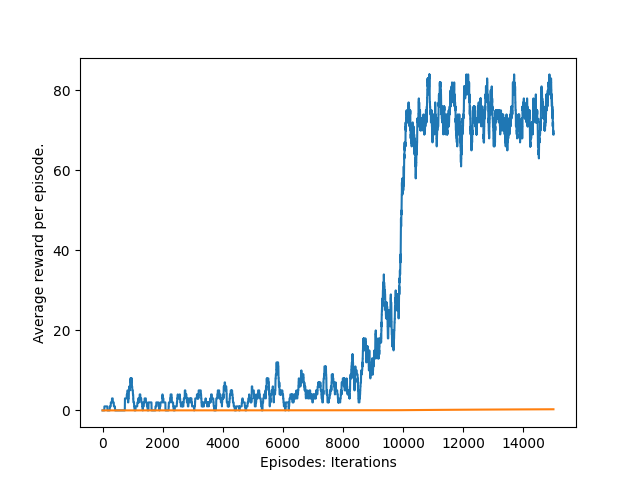
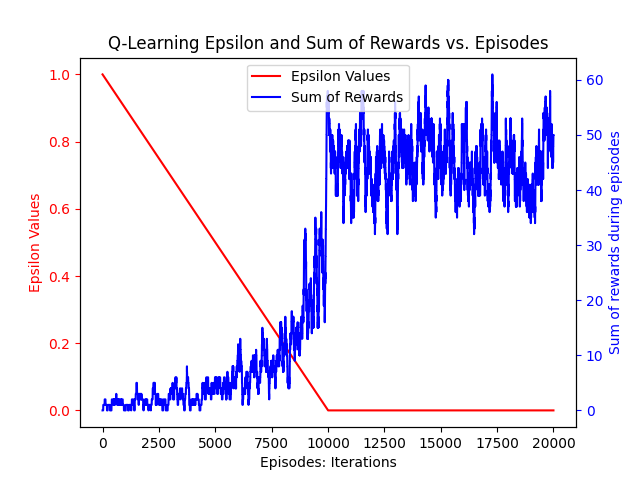
updated

diff --git a/RL Methods/SARSA/sarsa.py b/RL Methods/SARSA/sarsa.py
@@ -16,7 +16,7 @@ def run(episodes, render=False):
     Q = np.zeros((env.observation_space.n, env.action_space.n))
 
     # alpha or learning rate or step-size
-    alpha = 0.9
+    alpha = 0.5
 
     # gamma or discount factor
     gamma = 0.9
@@ -28,8 +28,14 @@ def run(episodes, render=False):
     epsilon_decay = 0.0001
     randomNum = np.random.default_rng()
 
-    # For graph; intialize the rewards in every episode to 0.
+    # For graph: intialize the rewards, epsilons to 0.
     rewardsPerEpisode = np.zeros(episodes)
+    epsilonPerEp = np.zeros(episodes)
+
+    # Initalize list of zeros, holding the average reward per epiosde.
+    avgRewardPerEp = np.zeros(episodes)
+    successful_episodes = 0  # Number of successful episodes, where the agent reaches the goal.
+    steps_to_reach_goal = [] # List containing the number of steps to reach the goal per episode. 
 
     for i in range(episodes):
 
@@ -39,6 +45,8 @@ def run(episodes, render=False):
         terminated = False
         #True if steps is greater than 100
         truncated = False
+        # Counter for the number of steps in the episode, used for the average later.
+        steps = 0
 
         # Check if a random number (between 0-0.99) is less than epsilon. # If so, we take a random action (explore).
         if randomNum.random() < epsilon:
@@ -66,6 +74,11 @@ def run(episodes, render=False):
             state = next_state
             action = next_action
 
+            # Increment our step counter 
+            steps += 1
+
+        # Note the epsilon used for the episode.     
+        epsilonPerEp[i] = epsilon
 
         # After each episode, we decrease our epsilon until it gets to 0.
         epsilon = max(epsilon - epsilon_decay, 0)
@@ -78,8 +91,61 @@ def run(episodes, render=False):
         # Adds a reward update to our episode matrix. 
         if reward == 1:
             rewardsPerEpisode[i] = 1
+            successful_episodes += 1
+            steps_to_reach_goal.append(steps) # Will push the number of steps taken to reach the goal for the specific episode. 
+        
+        # Calculate average reward per episode and store it in the array at index i.
+        avgRewardPerEp[i] = np.mean(rewardsPerEpisode[:i+1])
 
-    '''
+    # Close the environment.
+    env.close()
+
+    # Calculate the percentage of successful episodes.
+    percentage_successful_episodes = (successful_episodes / episodes) * 100
+
+    # Calculate the average steps taken to reach the goal; checks if the list is empty.
+    average_steps_to_reach_goal = np.mean(steps_to_reach_goal) if steps_to_reach_goal else 0
+
+    # Print evaluation metrics.
+    print(f"Average Reward per Episode: {avgRewardPerEp[-1]}")
+    print(f"Percentage of Successful Episodes: {percentage_successful_episodes}%")
+    print(f"Average Steps to Reach Goal: {average_steps_to_reach_goal}")
+
+    # Plot of the rewards vs. Episodes; running sum of the rewards of every 100 episodes.
+    sum_rewards = np.zeros(episodes)
+    for t in range(episodes):
+        sum_rewards[t] = np.sum(rewardsPerEpisode[max(0,t-100):(t+1)])
+
+    # Create a sub-plot.
+    fig, ax1 = plt.subplots()
+
+    # Create a second y-axis
+    ax1.plot(epsilonPerEp, label='Epsilon Values', color='r')
+    ax1.set_xlabel('Episodes: Iterations')
+    ax1.set_ylabel('Epsilon Values', color='r')
+    ax1.tick_params('y', colors='r')
+
+    # Plot sum of rewards on the first y-axis
+    ax2 = ax1.twinx() # Used for the graphing software of both in one.
+    ax2.plot(sum_rewards, label='Sum of Rewards', color='b')
+    ax2.set_ylabel('Sum of rewards during episodes', color='b')
+    ax2.tick_params('y', colors='b')
+
+    # Combine legends from both axes
+    lines, labels = ax1.get_legend_handles_labels()
+    lines2, labels2 = ax2.get_legend_handles_labels()
+    ax2.legend(lines + lines2, labels + labels2, loc='upper center')
+
+    plt.title("SARSA Epsilon and Sum of Rewards vs. Episodes")
+    #plt.show()
+    plt.savefig("RL Methods/SARSA/SARSAEpsilon.png")
+
+
+# Used to run the SARSA method.
+if __name__ == '__main__':
+    run(20000)
+
+'''
     # Evaluate policy
     total_reward = 0
     num_episodes = 100
@@ -92,24 +158,4 @@ def run(episodes, render=False):
             total_reward += reward
 
     print("Average reward:", total_reward / num_episodes)
-    '''
-    env.close()
-
-    print(Q)
-
-
-    # Plot of the rewards vs. Episodes; running sum of the rewards of every 100 episodes.
-    sum_rewards = np.zeros(episodes)
-    for t in range(episodes):
-        sum_rewards[t] = np.sum(rewardsPerEpisode[max(0,t-100):(t+1)])
-    plt.plot(sum_rewards)
-    plt.xlabel("Episodes: Iterations")
-    plt.ylabel("Sum of rewards during episodes")
-    plt.savefig("RL Methods/SARSA/SarsaFrozenLake.png")
-
-
-
-
-# Used to run the Q-learning method.
-if __name__ == '__main__':
-    run(15000)
+'''

diff --git a/RL Methods/Q-learning/QLearning.py b/RL Methods/Q-learning/QLearning.py
@@ -14,8 +14,8 @@ def run(episodes, render=False):
     # Initializes an array 16 x 4 with zeroes; Q(s,a) for all state and actions = 0
     Q = np.zeros((env.observation_space.n, env.action_space.n))
 
-    # alpha or learning rate or step-size
-    alpha = 0.9
+    # Alpha or learning rate or step-size (high alpha results in faster learning with potential oscillations, small alpha can result in more stability but slower learning).
+    alpha = 0.5
 
     # gamma or discount factor
     gamma = 0.9
@@ -125,12 +125,13 @@ def run(episodes, render=False):
     lines2, labels2 = ax2.get_legend_handles_labels()
     ax2.legend(lines + lines2, labels + labels2, loc='upper center')
 
-    plt.savefig("RL Methods/Q-learning/QLearningFrozenLake.png")
+    plt.title("Q-Learning Epsilon and Sum of Rewards vs. Episodes")
     #plt.show()
+    plt.savefig("RL Methods/Q-learning/QLearningEpsilon.png")
 
 # Used to run the Q-learning method.
 if __name__ == '__main__':
-    run(15000)
+    run(20000)
 
 
 '''
